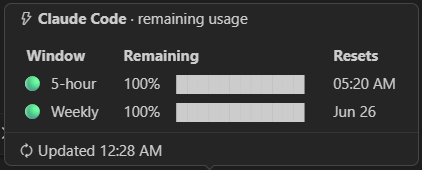
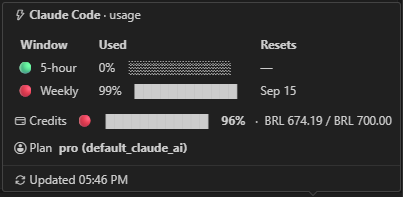
feat: show Claude credential plan and tier

diff --git a/src/agents/claude.ts b/src/agents/claude.ts
@@ -2,6 +2,7 @@ import * as fs from 'fs';
 import * as https from 'https';
 import * as os from 'os';
 import * as path from 'path';
+import { parseClaudeCredentials } from './claudeCredentials';
 import { getBool } from '../shared/settings';
 import { AgentDetection, AgentProvider, AgentUsage } from '../shared/types';
 
@@ -34,19 +35,19 @@ export class ClaudeProvider implements AgentProvider {
   }
 
   async detect(): Promise<AgentDetection> {
-    const token = await readAccessToken();
-    return token
+    const credentials = await readClaudeCredentials();
+    return credentials?.accessToken
       ? { available: true }
       : { available: false, reason: 'no Claude credentials found' };
   }
 
   async fetchUsage(): Promise<AgentUsage> {
-    const token = await readAccessToken();
-    if (!token) throw new Error('no credentials; sign in to Claude Code');
+    const credentials = await readClaudeCredentials();
+    if (!credentials?.accessToken) throw new Error('no credentials; sign in to Claude Code');
 
-    const payload = await fetchClaudeUsage(token);
+    const payload = await fetchClaudeUsage(credentials.accessToken);
     return {
-      plan: planFromPayload(payload),
+      plan: credentials.plan,
       fiveHour: payload.five_hour?.utilization === undefined
         ? undefined
         : {
@@ -64,11 +65,10 @@ export class ClaudeProvider implements AgentProvider {
   }
 }
 
-async function readAccessToken(): Promise<string | undefined> {
+async function readClaudeCredentials(): Promise<ReturnType<typeof parseClaudeCredentials>> {
   try {
     const raw = await fs.promises.readFile(path.join(os.homedir(), '.claude', '.credentials.json'), 'utf8');
-    const credentials = JSON.parse(raw);
-    return credentials?.claudeAiOauth?.accessToken ?? credentials?.accessToken;
+    return parseClaudeCredentials(raw);
   } catch {
     return undefined;
   }
@@ -126,39 +126,4 @@ function toCredits(payload: ClaudeUsagePayload): AgentUsage['credits'] {
     currency: extra.currency ?? 'USD',
     decimals: extra.decimal_places ?? 2,
   };
-}
-
-function readStringPath(value: unknown, keys: string[]): string | undefined {
-  let current: unknown = value;
-  for (const key of keys) {
-    if (current === null || typeof current !== 'object') return undefined;
-    current = (current as Record<string, unknown>)[key];
-  }
-  return typeof current === 'string' && current.trim() ? current.trim() : undefined;
-}
-
-function planFromPayload(payload: unknown): string | undefined {
-  const paths = [
-    ['plan'],
-    ['plan_type'],
-    ['planType'],
-    ['tier'],
-    ['subscription', 'plan'],
-    ['subscription', 'plan_type'],
-    ['subscription', 'planType'],
-    ['subscription', 'tier'],
-    ['account', 'plan'],
-    ['account', 'plan_type'],
-    ['account', 'subscription', 'plan'],
-    ['organization', 'plan'],
-    ['organization', 'plan_type'],
-    ['organization', 'subscription', 'plan'],
-  ];
-
-  for (const candidate of paths) {
-    const plan = readStringPath(payload, candidate);
-    if (plan) return plan;
-  }
-
-  return undefined;
 }

diff --git a/src/test/claudeCredentials.test.ts b/src/test/claudeCredentials.test.ts
@@ -1,0 +1,52 @@
+import * as assert from 'node:assert/strict';
+import { test } from 'node:test';
+import { parseClaudeCredentials } from '../agents/claudeCredentials';
+
+test('extracts nested OAuth credentials and formats subscription with tier', () => {
+  const result = parseClaudeCredentials(JSON.stringify({
+    claudeAiOauth: {
+      accessToken: 'nested-token',
+      subscriptionType: 'pro',
+      rateLimitTier: 'tier_2',
+    },
+  }));
+
+  assert.deepEqual(result, { accessToken: 'nested-token', plan: 'pro (tier_2)' });
+});
+
+test('falls back to a legacy top-level access token', () => {
+  const result = parseClaudeCredentials(JSON.stringify({ accessToken: 'legacy-token' }));
+
+  assert.deepEqual(result, { accessToken: 'legacy-token', plan: undefined });
+});
+
+test('uses the available subscription metadata when the other value is absent', () => {
+  const withSubscription = parseClaudeCredentials(JSON.stringify({
+    claudeAiOauth: { subscriptionType: 'max' },
+  }));
+  const withTier = parseClaudeCredentials(JSON.stringify({
+    claudeAiOauth: { rateLimitTier: 'tier_3' },
+  }));
+
+  assert.equal(withSubscription?.plan, 'max');
+  assert.equal(withTier?.plan, 'tier_3');
+});
+
+test('trims metadata and omits a plan when both values are blank', () => {
+  const result = parseClaudeCredentials(JSON.stringify({
+    claudeAiOauth: {
+      subscriptionType: '  pro  ',
+      rateLimitTier: '   ',
+    },
+  }));
+  const blank = parseClaudeCredentials(JSON.stringify({
+    claudeAiOauth: { subscriptionType: ' ', rateLimitTier: '' },
+  }));
+
+  assert.equal(result?.plan, 'pro');
+  assert.equal(blank?.plan, undefined);
+});
+
+test('returns undefined for malformed credential JSON', () => {
+  assert.equal(parseClaudeCredentials('{not json'), undefined);
+});

diff --git a/src/agents/claudeCredentials.ts b/src/agents/claudeCredentials.ts
@@ -1,0 +1,37 @@
+export interface ClaudeCredentials {
+  accessToken?: string;
+  plan?: string;
+}
+
+export function parseClaudeCredentials(raw: string): ClaudeCredentials | undefined {
+  try {
+    const credentials = asRecord(JSON.parse(raw));
+    if (!credentials) return undefined;
+
+    const oauth = asRecord(credentials.claudeAiOauth);
+    const subscriptionType = readString(oauth?.subscriptionType);
+    const rateLimitTier = readString(oauth?.rateLimitTier);
+
+    return {
+      accessToken: readString(oauth?.accessToken) ?? readString(credentials.accessToken),
+      plan: formatPlan(subscriptionType, rateLimitTier),
+    };
+  } catch {
+    return undefined;
+  }
+}
+
+function asRecord(value: unknown): Record<string, unknown> | undefined {
+  return value !== null && typeof value === 'object' && !Array.isArray(value)
+    ? value as Record<string, unknown>
+    : undefined;
+}
+
+function readString(value: unknown): string | undefined {
+  return typeof value === 'string' && value.trim() ? value.trim() : undefined;
+}
+
+function formatPlan(subscriptionType: string | undefined, rateLimitTier: string | undefined): string | undefined {
+  if (subscriptionType && rateLimitTier) return `${subscriptionType} (${rateLimitTier})`;
+  return subscriptionType ?? rateLimitTier;
+}

diff --git a/PRIVACY.md b/PRIVACY.md
@@ -10,8 +10,9 @@ in VS Code. It has no telemetry, analytics, or advertising integrations.
 
 ```text
 Claude Code credentials file
-  → OAuth token kept in memory
-  → Anthropic OAuth usage endpoint
+  ├→ OAuth token kept in memory → Anthropic OAuth usage endpoint → usage response
+  └→ Subscription and rate-limit metadata normalized locally
+Usage response + normalized metadata
   → normalized usage snapshot in VS Code extension storage
 
 Codex executable
@@ -28,10 +29,12 @@ authentication and any service communication.
 ### Claude Code credentials
 
 For Claude Code, the extension reads `~/.claude/.credentials.json` and extracts
-`claudeAiOauth.accessToken`, falling back to a top-level `accessToken`. The token is
-read during availability detection and again before a fresh usage request. It is held
-only in local variables and request state, is not intentionally retained after those
-operations, and is never cached or persisted by the extension.
+`claudeAiOauth.accessToken`, falling back to a top-level `accessToken`. It also
+reads optional `claudeAiOauth.subscriptionType` and
+`claudeAiOauth.rateLimitTier` fields to display the Claude plan and rate-limit tier.
+The token is read during availability detection and again before a fresh usage request.
+It is held only in local variables and request state, is not intentionally retained
+after those operations, and is never cached or persisted by the extension.
 
 The extension does not write, replace, refresh, or cache Claude credentials.
 
@@ -65,7 +68,8 @@ Cache files are stored in VS Code extension storage at:
 Each cache entry contains a version, update timestamp, and normalized usage data:
 plan name, primary and secondary usage percentages and reset times, available credits,
 rate-limit state, and optional display labels. Cache entries do not contain OAuth
-tokens or raw credential-file contents.
+tokens or raw credential-file contents. A plan name derived from the Claude credential
+metadata may be present as normalized usage data.
 
 Fresh usage replaces the corresponding cache entry. The extension does not define a
 separate retention period for these local cache files.
@@ -82,8 +86,7 @@ https://api.anthropic.com/api/oauth/usage
 
 The request includes the Claude OAuth token as a Bearer authorization header and the
 required Anthropic OAuth beta header. The response is parsed in memory to derive the
-usage windows, reset times, plan, and optional extra-usage credits shown by the
-extension.
+usage windows, reset times, and optional extra-usage credits shown by the extension.
 
 This endpoint is internal and undocumented. Its behavior or response format may
 change without notice.

diff --git a/README.md b/README.md
@@ -15,8 +15,9 @@ One compact entry per available agent—visible where you already work.
 
 - **Usage at a glance.** See the primary `5h` window and an optional weekly or
   billing-cycle window, with clear status indicators.
-- **Details when you need them.** Hover an entry for reset times, plan details,
-  credits, rate-limit information, and the last update time.
+- **Details when you need them.** Hover an entry for reset times, plan details
+  (including Claude subscription and rate-limit tier when available), credits,
+  rate-limit information, and the last update time.
 - **A sidebar view.** The **AI Usage** activity-bar panel mirrors the hover
   details with proportional usage bars and a refresh button.
 - **Useful defaults, flexible display.** Keep each agent's native used/remaining
@@ -30,7 +31,7 @@ Hover either status-bar entry for the active usage windows and account details.
 
 ![Codex usage hover popup with primary and weekly gauges, reset times, plan, and credits](assets/screenshots/tooltip-codex.png)
 
-![Claude Code usage hover popup with 5-hour and weekly gauges and reset times](assets/screenshots/tooltip-claude-code.png)
+![Claude Code usage hover popup with plan, 5-hour and weekly gauges, and reset times](assets/screenshots/tooltip-claude-code.png)
 
 ## Install in VS Code
 
@@ -130,7 +131,8 @@ AI Status Bar is intentionally read-only from the agents' point of view.
 - **Stays local:** Codex usage is requested from a local `codex app-server`
   process; normalized usage snapshots are cached in VS Code extension storage.
 - **Never persists:** Claude OAuth tokens and raw credential-file contents are not
-  written to the extension cache.
+  written to the extension cache. A normalized Claude plan label may be cached with
+  the usage snapshot.
 
 See [PRIVACY.md](PRIVACY.md) for the complete technical data-flow, security-boundary,
 and scope details.

diff --git a/docs/agent-providers.md b/docs/agent-providers.md
@@ -12,8 +12,10 @@ before touching a provider.
 ## Claude
 
 Reads `~/.claude/.credentials.json`, taking
-`claudeAiOauth.accessToken` (falling back to a top-level `accessToken`), then
-issues `GET https://api.anthropic.com/api/oauth/usage` with header
+`claudeAiOauth.accessToken` (falling back to a top-level `accessToken`) plus
+the optional `claudeAiOauth.subscriptionType` and
+`claudeAiOauth.rateLimitTier` metadata, then issues
+`GET https://api.anthropic.com/api/oauth/usage` with header
 `anthropic-beta: oauth-2025-04-20`.
 
 - This is an **undocumented/internal endpoint** — it may change without
@@ -21,9 +23,9 @@ issues `GET https://api.anthropic.com/api/oauth/usage` with header
   code bug.
 - The token is read fresh on every fetch and kept in memory only; it is never
   written to the on-disk usage cache (see `PRIVACY.md`).
-- `planFromPayload()` tries 14 different JSON paths (`plan`, `plan_type`,
-  `subscription.tier`, `organization.plan`, ...) because the actual field
-  location in the response is not documented and may vary by account type.
+- The displayed plan derives only from credential metadata:
+  `subscriptionType (rateLimitTier)` when both are present, or the available
+  value alone. The usage payload does not provide plan information.
 - On non-200 responses, a `Retry-After` header (if present) is converted to
   `retryAfterMs` and honored by the controller's backoff (see
   [architecture.md](architecture.md#failure-handling-and-backoff)).

diff --git a/docs/development.md b/docs/development.md
@@ -62,12 +62,13 @@ npm test
 [`format.ts`](../src/shared/format.ts), [`cache.ts`](../src/shared/cache.ts),
 [`usageStore.ts`](../src/shared/usageStore.ts),
 [`panelModel.ts`](../src/shared/panelModel.ts), and
-[`panelHtml.ts`](../src/shared/panelHtml.ts). Everything else (`renderer.ts`,
-`settings.ts`, `statusController.ts`, `usageViewProvider.ts`, all of
-`src/agents/`) imports `vscode`, which only resolves inside a real or mocked
-extension host. If you need to test logic in one of those files, factor the
-pure part out into `shared/` first rather than trying to run it under
-`node --test`.
+[`panelHtml.ts`](../src/shared/panelHtml.ts), and
+[`claudeCredentials.ts`](../src/agents/claudeCredentials.ts). Everything else
+(`renderer.ts`, `settings.ts`, `statusController.ts`, `usageViewProvider.ts`,
+and the remaining agent providers) imports `vscode`, which only resolves inside
+a real or mocked extension host. If you need to test logic in one of those
+files, factor the pure part into a `vscode`-free module before trying to run it
+under `node --test`.
 
 ## The gate
 
